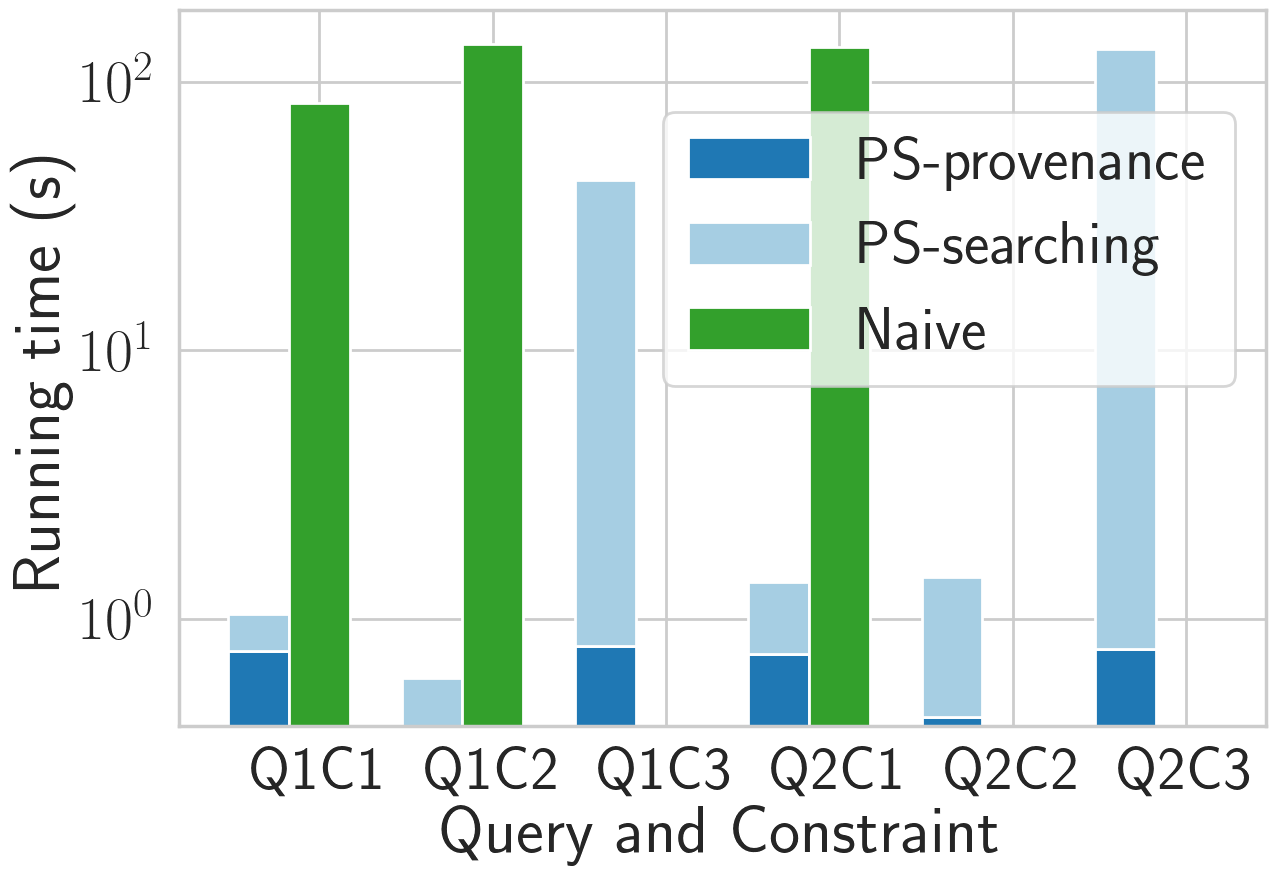
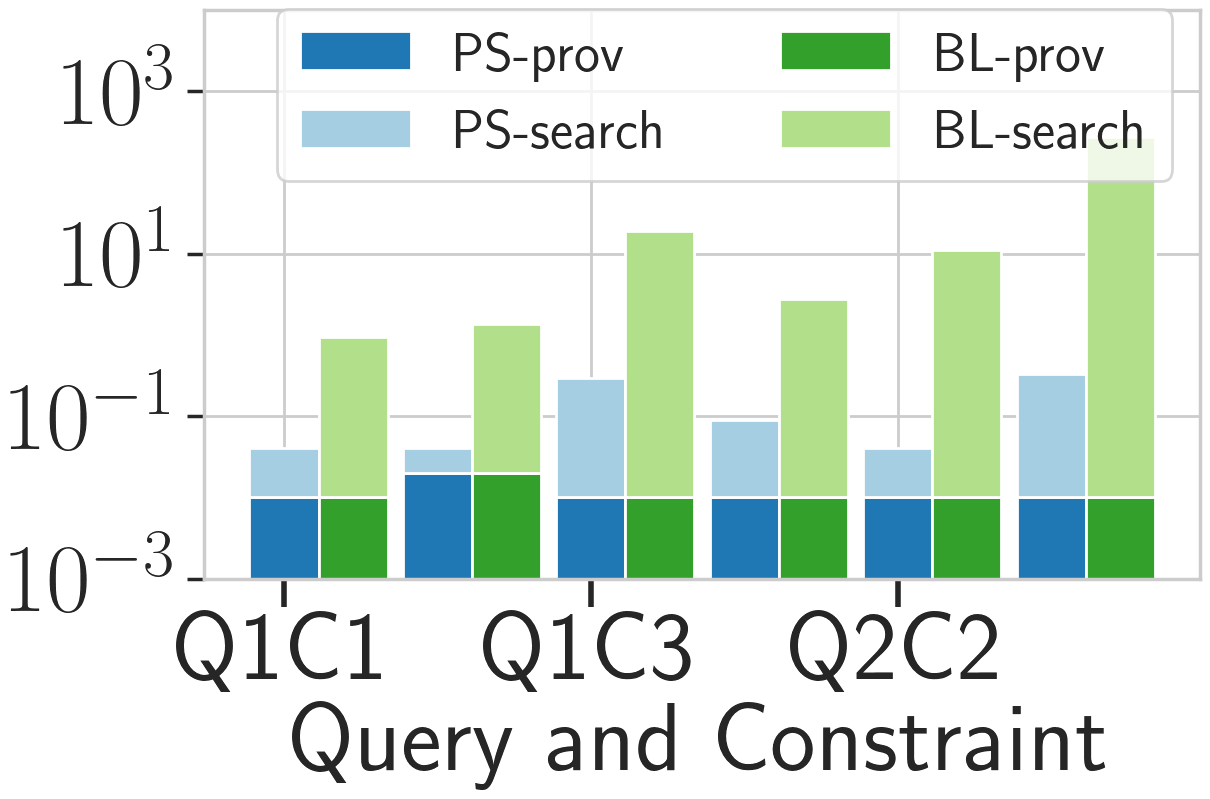
healthcare running time

diff --git a/Experiment/healthcare/exp_2_runningtime/running_time_0.py b/Experiment/healthcare/exp_2_runningtime/running_time_0.py
@@ -11,10 +11,10 @@ import time
 from intbitset import intbitset
 import json
 
-from Algorithm import ProvenanceSearchValues_6_20220825 as ps
-from Algorithm import LatticeTraversal_4_20220901 as lt
+from Algorithm import ProvenanceSearchValues_8_20230119 as ps
+from Algorithm import LatticeTraversal_5_20230121 as lt
 
-data_file = r"../../../InputData/Healthcare/incomeK/before_selection_incomeK.csv"
+data_file_prefix = r"../../../InputData/Healthcare/incomeK/"
 query_file_prefix = r"query"
 constraint_file_prefix = r"constraint"
 time_output_prefix = r"./result_"
@@ -26,27 +26,32 @@ def file(q, c):
     time_output.write("selection file, running time ps, running time lt\n")
     return time_output
 
+result_output_file = r"./running_time_result.txt"
+result_output = open(result_output_file, "w")
+result_output.write("selection file, result\n")
 
-time_limit = 30 * 5
 
+time_limit = 10*60
+separator = ','
 
 def compare(q, c, time_output):
     print("run with query{} constraint{}".format(q, c))
+    result_output.write("query{} constraint{}\n".format(q, c))
     query_file = query_file_prefix + str(q) + ".json"
     constraint_file = constraint_file_prefix + str(c) + ".json"
 
     print("========================== provenance search ===================================")
-    minimal_refinements1, running_time1, assign_to_provenance_num, \
-    provenance_time, search_time = \
-        ps.FindMinimalRefinement(data_file, query_file, constraint_file, time_limit)
+    minimal_refinements1, running_time1, _, \
+    provenance_time1, search_time1 = \
+        ps.FindMinimalRefinement(data_file_prefix, separator, query_file, constraint_file, data_file_format, time_limit)
 
     print("running time = {}".format(running_time1))
     print(*minimal_refinements1, sep="\n")
 
     print("========================== lattice traversal ===================================")
 
-    minimal_refinements2, minimal_added_refinements2, running_time2 = \
-        lt.FindMinimalRefinement(data_file, query_file, constraint_file, time_limit)
+    minimal_refinements2, minimal_added_refinements2, running_time2, provenance_time2, search_time2 = \
+        lt.FindMinimalRefinement(data_file_prefix, separator, query_file, constraint_file, data_file_format, time_limit)
     if running_time2 > time_limit:
         print("naive alg out of time")
     else:
@@ -55,22 +60,26 @@ def compare(q, c, time_output):
 
     time_output.write("\n")
     idx = "Q" + str(q) + "C" + str(c)
-    time_output.write("{},{:0.2f},{:0.2f},{:0.2f}\n".format(idx, running_time1, provenance_time,
-                                                            search_time))
-    # if running_time2 < time_limit:
-    #     time_output.write("{}, {:0.2f}\n".format(idx, running_time2))
-    time_output.write("\n".join(str(item) for item in minimal_refinements1))
-    time_output.write("\n")
-    summary_file.write(("{},{:0.2f},".format(idx, running_time1)))
-    # if running_time2 < time_limit:
-    #     summary_file.write("{:0.2f}\n".format(running_time2))
-    # else:
-    #     summary_file.write("\n")
+    time_output.write("{},{:0.2f},{:0.2f},{:0.2f}\n".format(idx, running_time1, provenance_time1,
+                                                            search_time1))
+    if running_time2 < time_limit:
+        time_output.write("{},{:0.2f},{:0.2f},{:0.2f},"
+                          "{:0.2f},{:0.2f},{:0.2f}\n".format(idx, running_time1, provenance_time1, search_time1,
+                                                             running_time2, provenance_time2, search_time2))
+    else:
+        time_output.write("{},{:0.2f},{:0.2f},{:0.2f},,,\n".format(idx, running_time1, provenance_time1,
+                                                                   search_time1))
+    result_output.write("{}\n".format(idx))
+    result_output.write(",".join(str(item) for item in minimal_refinements1))
+    result_output.write("\n")
+    result_output.write("\n".join(str(item) for item in minimal_refinements1))
+    result_output.write("\n")
 
 
 summary_file = open(r"time1.csv", "w")
 summary_file.write("file,PS,LT\n")
 
+data_file_format = '.csv'
 
 def run(q, c):
     time_output = file(q, c)
@@ -78,9 +87,9 @@ def run(q, c):
     time_output.close()
 
 
-run(1, 1)
+# run(1, 1)
 # run(1, 2)
-# run(1, 3)
-# run(2, 1)
-# run(2, 2)
-# run(2, 3)
+run(1, 3)
+run(2, 1)
+run(2, 2)
+run(2, 3)

diff --git a/Experiment/healthcare/exp_2_runningtime/fig.py b/Experiment/healthcare/exp_2_runningtime/fig.py
@@ -3,25 +3,31 @@ import seaborn as sns
 from matplotlib.ticker import FuncFormatter
 import numpy as np
 
-plt.rc('text', usetex=True)
-plt.rc('font', family='serif')
-
 
 sns.set_palette("Paired")
 # sns.set_palette("deep")
 sns.set_context("poster", font_scale=2)
 sns.set_style("whitegrid")
-# sns.palplot(sns.color_palette("deep", 10))
-# sns.palplot(sns.color_palette("Paired", 9))
+plt.rcParams['xtick.major.size'] = 20
+plt.rcParams['xtick.major.width'] = 4
+plt.rcParams['xtick.bottom'] = True
+plt.rcParams['ytick.left'] = True
 
-color = ['C1', 'C0', 'C3']
-label = ["PS-provenance", "PS-searching", "Naive"]
+plt.rc('text', usetex=True)
+plt.rc('font', size=70, weight='bold')
+
+color = ['C1', 'C0', 'C3', 'C2']
+label = ['PS-prov', "PS-search", "BL-prov", "BL-search"]
+
 f_size = (14, 10)
+
 x_list = list()
 x_naive = list()
 execution_timeps1 = list()
 execution_timeps2 = list()
-execution_timelt = list()
+execution_timebl1 = list()
+execution_timebl2 = list()
+
 
 input_path = r'time.csv'
 input_file = open(input_path, "r")
@@ -40,32 +46,39 @@ for line in Lines:
         break
     items = line.strip().split(',')
     x_list.append(items[0])
-    execution_timeps1.append(float(items[1]))
-    execution_timeps2.append(float(items[2]))
-    if len(items) == 4:
-        execution_timelt.append(float(items[3]))
+    execution_timeps1.append(float(items[2]))
+    execution_timeps2.append(float(items[3]))
+    if items[4] != '':
+        execution_timebl1.append(float(items[5]))
+        execution_timebl2.append(float(items[6]))
     else:
-        execution_timelt.append(0)
+        execution_timebl1.append(0)
+        execution_timebl2.append(0)
 
-print(x_list, execution_timeps1, execution_timeps2, execution_timelt)
+
 
 index = np.arange(len(x_list))
-bar_width = 0.35
+bar_width = 0.45
 
 fig, ax = plt.subplots(1, 1, figsize=f_size)
 
-
 plt.bar(index, execution_timeps1, bar_width, color=color[0], label=label[0])
 plt.bar(index, execution_timeps2, bar_width, bottom=execution_timeps1,
-       color=color[1], label=label[1])
+        color=color[1], label=label[1])
+plt.bar(index + bar_width, execution_timebl1, bar_width, color=color[2], label=label[2])
+plt.bar(index + bar_width, execution_timebl2, bar_width, bottom=execution_timebl1,
+        color=color[3], label=label[3])
 
-plt.bar(index + bar_width, execution_timelt, bar_width,  color=color[2], label=label[2])
-plt.xticks(index + bar_width, x_list)
+x_list = ['Q1C1', 'Q1C3', 'Q2C2']
+plt.ylim(0.001, 10000)
+
+plt.xticks(np.arange(0, 6, 2), x_list, rotation=0, fontsize=70)
+plt.yticks(fontsize=70, weight='bold')
 
 plt.xlabel('Query and Constraint')
-plt.ylabel('Running time (s)')
+# plt.ylabel('Running time (s)')
 plt.yscale('log')
-plt.legend(loc='upper right', bbox_to_anchor=(1, 0.9))
+plt.legend(loc='upper right', bbox_to_anchor=(1, 1.05), ncol=2, fontsize=40)
 
 plt.tight_layout()
 plt.savefig("healthcare_time.png", bbox_inches='tight')
